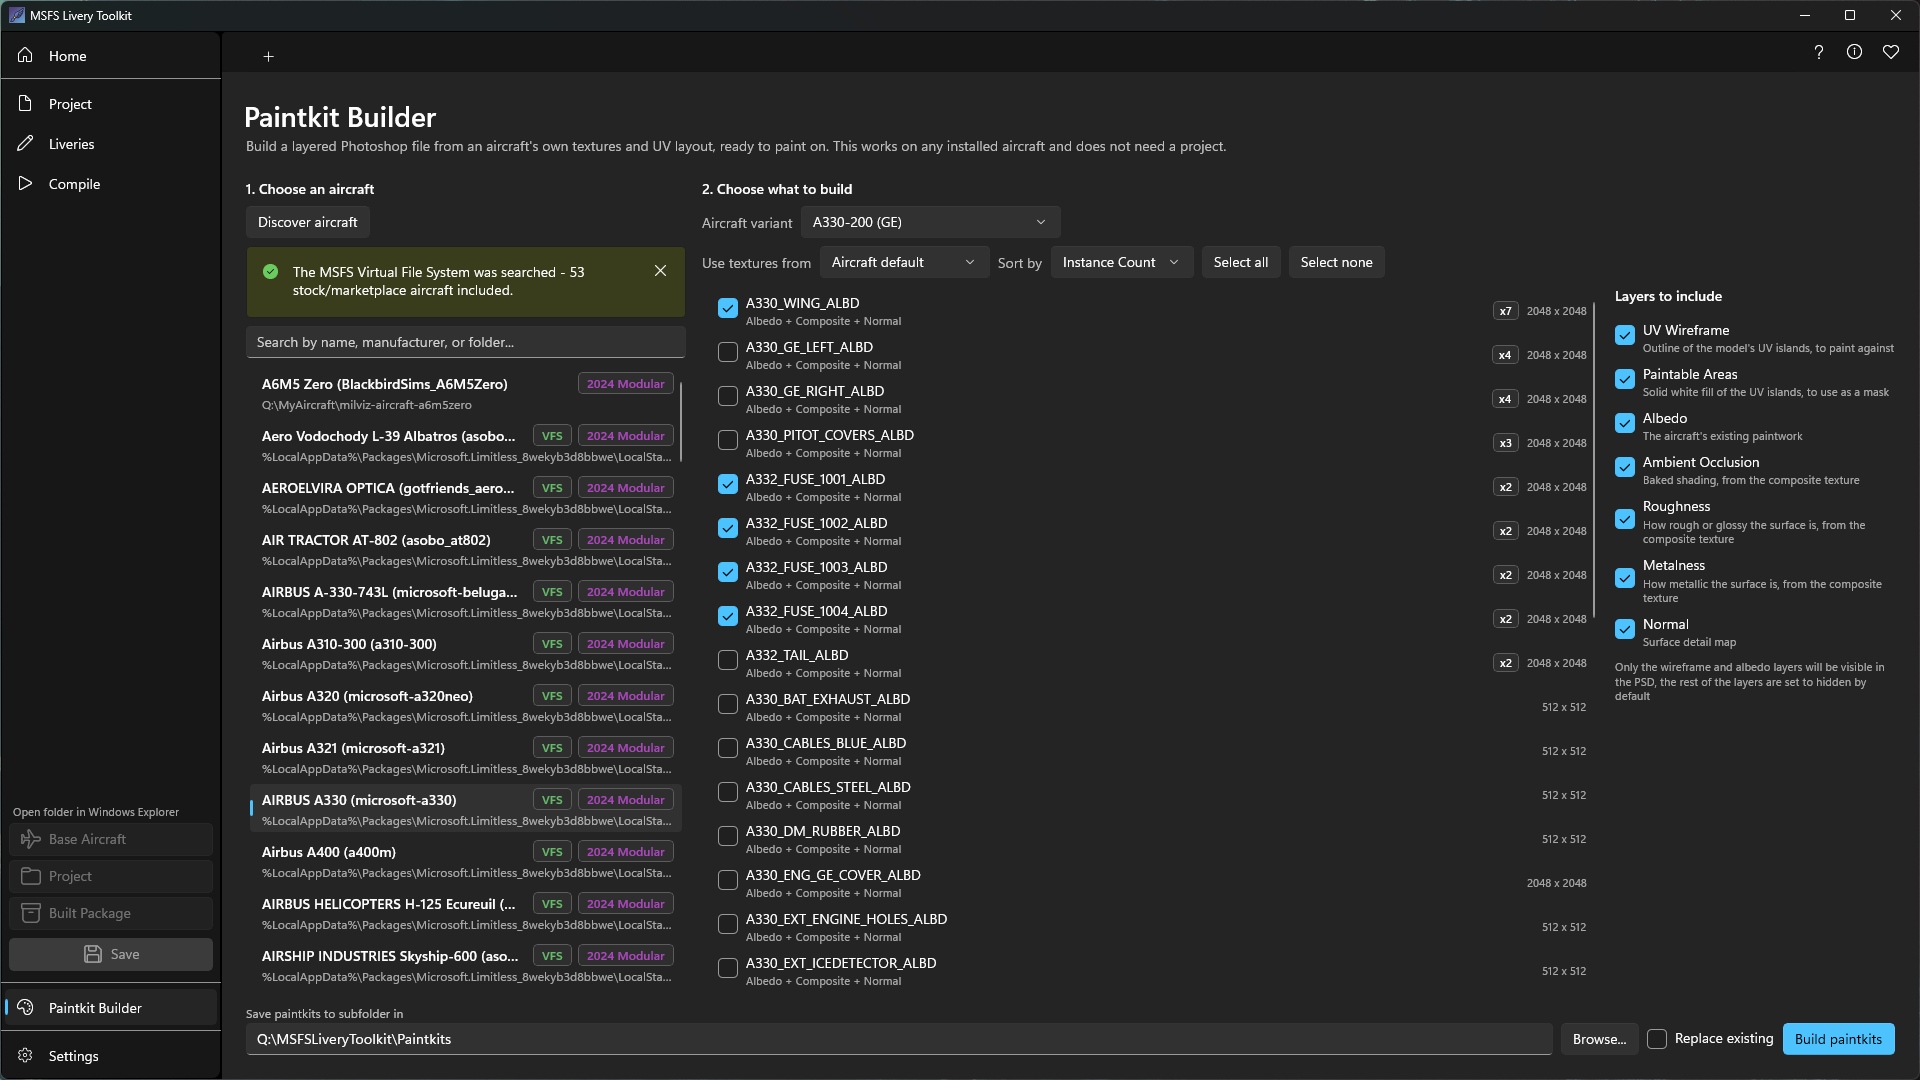
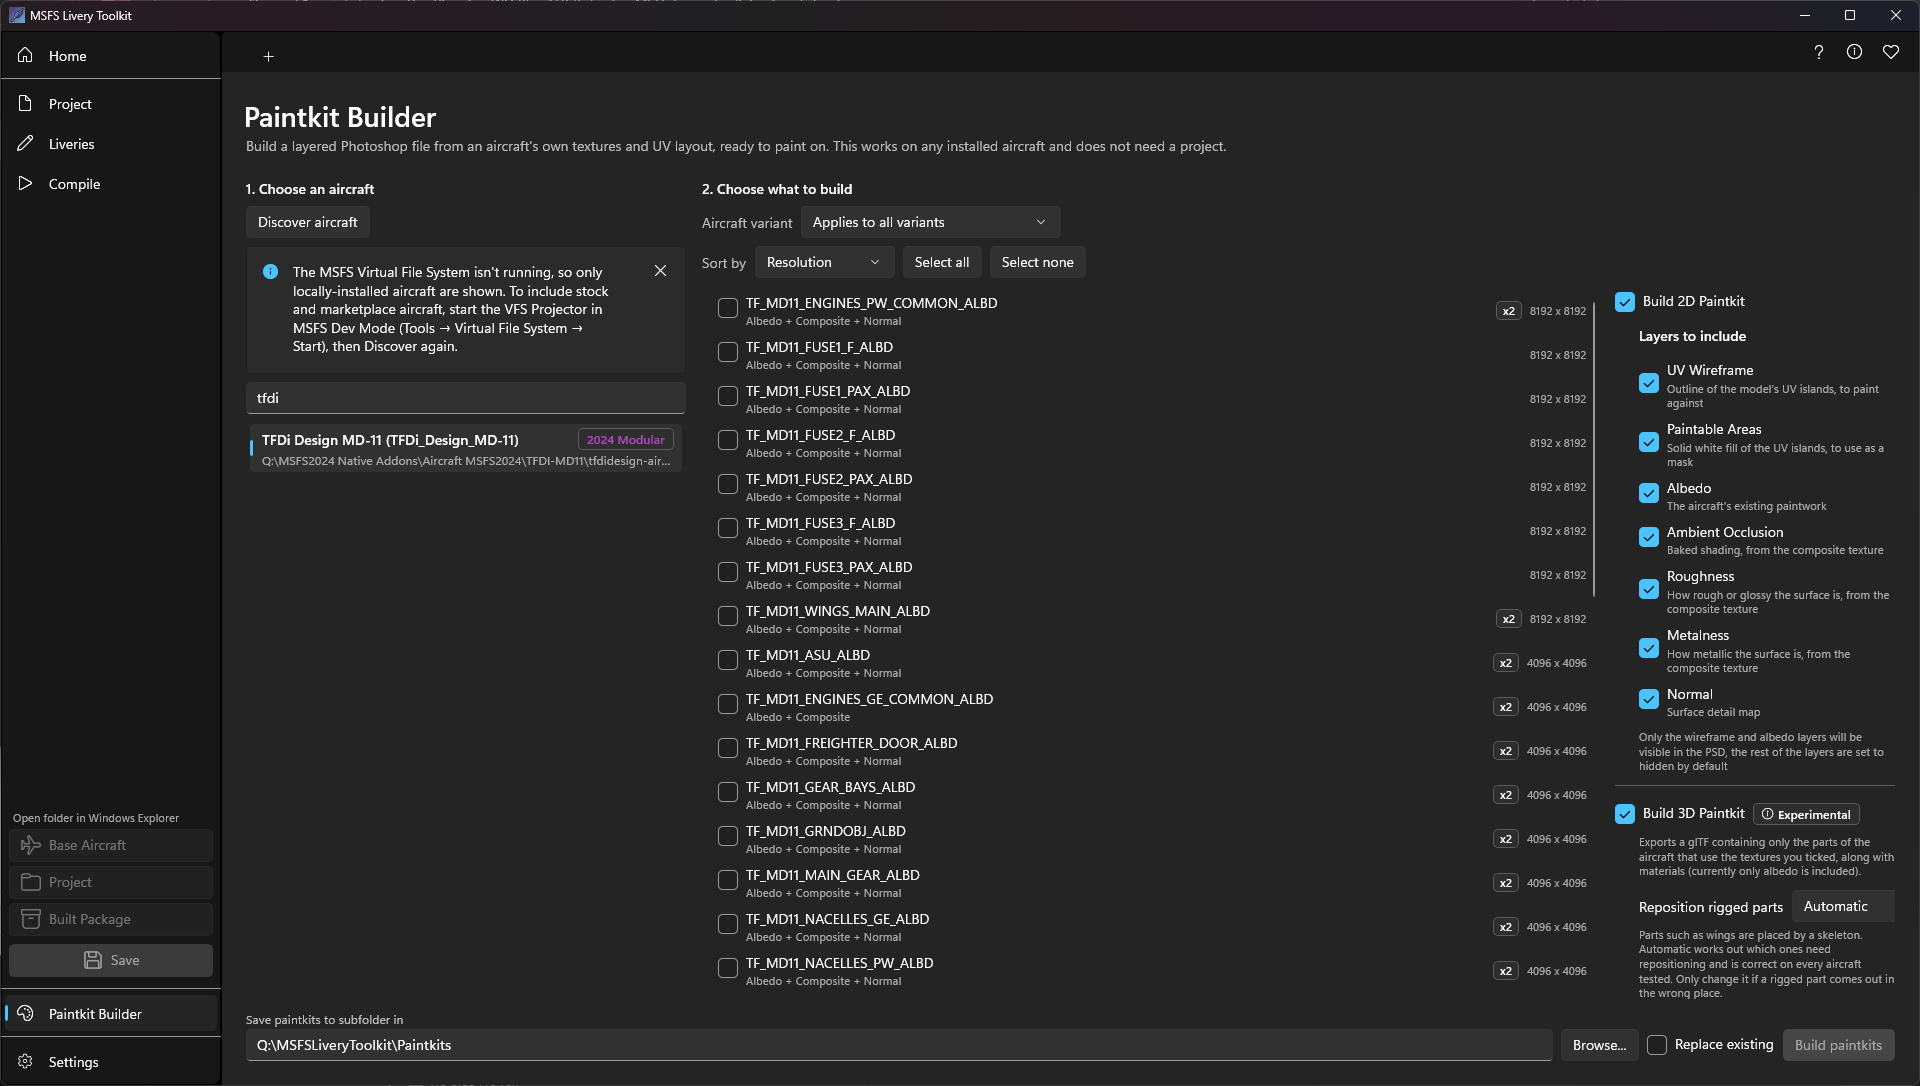
Docs: cover the 3D paintkit, and update the Paintkit Builder screenshot
The Paintkit Builder now produces two things, so the page is restructured
around that: a "2D paintkit" section holding the existing Photoshop material,
and a new "3D paintkit" section for the model export. The intro says up front
that either can be built on its own.

The 3D section is labelled experimental and says plainly what that means: a few
small parts, most often airliner control surfaces, can come out in the wrong
position, the main airframe is not affected, and other glTF importers including
Blender's official one misplace exactly the same parts.

"Using it" now covers choosing the outputs and the two subfolders they land in,
including the note that paintkits built before this release will not be seen by
the skip-existing check. Notes gained the model's sibling files, the report
written beside it, and the Reposition rigged parts escape hatch.

On the home page the single paintkit feature is split into a 2D and a 3D entry,
so the distinction is visible without opening the page.

Replaces Livery-Builder.png with a current screenshot of the Paintkit Builder,
and gives it descriptive alt text: it previously read "Livery Builder", which
is a different part of the app.

diff --git a/docs/paintkit-builder.md b/docs/paintkit-builder.md
@@ -9,8 +9,9 @@ Many aircraft never ship a paintkit. Without one you are painting blind: no idea
 fall on the texture sheet, no idea which part of the image is the tail, and nothing underneath to trace.
 
 The Paintkit Builder solves that by building a paintkit **from the aircraft itself**. It reads the
-aircraft's own compiled textures and its 3D model's UV layout, and writes a layered Photoshop file you can
-start painting on straight away.
+aircraft's own compiled textures and its 3D model, and gives you two ways to work: a layered Photoshop
+file you can start painting on straight away, and a 3D model of the parts you are painting that you can
+open in Blender. You can build either on its own, or both together.
 
 It works on any aircraft you have installed, and it does **not** need a project. You can point it at an
 aircraft you are only considering, look at what its textures are like, and decide from there.
@@ -21,7 +22,14 @@ You will find it in the sidebar, just above Settings.
 
 ## What you get
 
-One `.psd` per texture, saved into a folder named after the aircraft, with these layers:
+Everything is saved into a folder named after the aircraft, split into a **2D Paintkit** folder and a
+**3D Paintkit** folder so the Photoshop files and the model stay apart.
+
+---
+
+## The 2D paintkit
+
+One `.psd` per texture, with these layers:
 
 | Layer | What it is |
 |:------|:-----------|
@@ -47,9 +55,42 @@ Two details worth knowing:
 
 ---
 
+## The 3D paintkit
+{: .d-inline-block }
+
+Experimental
+{: .label .label-yellow }
+
+A `.gltf` model containing only the parts of the aircraft that use the textures you picked. Open it in
+Blender, or any other 3D painting software, to see where your artwork actually lands on the aircraft
+instead of working it out from a flat UV map.
+
+- **Each material is named after the paintkit it belongs to**, so it is obvious which `.psd` paints which
+  surface.
+- **The model arrives wearing the aircraft's current paintwork**, so you can see what you are starting
+  from and paint over it.
+- **Parts stay separate.** Movable surfaces such as a rudder or an elevator keep their own place in the
+  model tree, so you can rotate one out of the way to reach what is behind it.
+
+You can build the model on its own, without any Photoshop files, if that is all you want.
+
+### What "experimental" means here
+
+On most aircraft the model is accurate. On some, a few small parts can come out in the wrong position,
+most often control surfaces such as ailerons, flaps and spoilers on airliners. The main airframe is not
+affected.
+
+This is not something the app is getting wrong in isolation: other glTF importers, including the official
+Blender importer, place exactly the same parts in the wrong place, so it appears to be a general issue
+with how certain models store that information. It is worth knowing about before you rely on a part being
+exactly where the model puts it.
+
+---
+
 ## Using it
 
-![Livery Builder](assets/images/Livery-Builder.png)
+![The Paintkit Builder page, showing the aircraft list, the texture list and the build options](assets/images/Livery-Builder.png)
+
 **1. Choose an aircraft.** Click **Discover aircraft** and pick one from the list. Each entry shows where
 it was found and whether it is an MSFS 2020 or MSFS 2024 aircraft, so you can tell two installs of the
 same aircraft apart.
@@ -58,12 +99,20 @@ Stock and marketplace aircraft need the sim's Virtual File System running, exact
 See [Creating liveries]({{ '/creating-liveries.html' | relative_url }}) for how to start it.
 
 **2. Choose what to build.** If the aircraft has several variants, pick the one you are painting first.
-Then tick the textures you want a paintkit for, and tick which layers each file should contain. Your layer
-choice is remembered for next time.
+Then tick the textures you want a paintkit for.
+
+Underneath, choose the outputs. **Build 2D Paintkit** gives you the Photoshop files, and you can tick which
+layers each one should contain. **Build 3D Paintkit** gives you the model. Either can be used on its own,
+and your choices are remembered for next time.
 
 **3. Choose where to save it**, and click **Build paintkits**. A folder named after the aircraft is created
-inside the location you pick, so building for several aircraft keeps them separate. You can set a default
-location in [Settings]({{ '/configuration.html' | relative_url }}).
+inside the location you pick, so building for several aircraft keeps them separate, and inside it you get a
+**2D Paintkit** folder, a **3D Paintkit** folder, or both, depending on what you asked for. You can set a
+default location in [Settings]({{ '/configuration.html' | relative_url }}).
+
+If you built paintkits before this feature arrived, your older files are still where you left them. The app
+will not see them when it checks whether a paintkit already exists, so it builds fresh ones rather than
+skipping.
 
 ---
 
@@ -105,3 +154,11 @@ offered, so you will not be shown a scheme that does not fit.
   Photoshop.
 - Building a lot of textures at once takes a while. The app stays locked while it works, and there is a
   **Cancel** button if you change your mind.
+- The 3D model is written as a `.gltf` with a `.bin` beside it and one image per material. Keep those files
+  together, since the model refers to them by name.
+- A short report file is written next to the model, listing which of the aircraft's model files were used
+  and where each rigged part was placed. It is worth a look if something in the model seems out of place.
+- Some parts of an aircraft are positioned by a skeleton rather than sitting where they are drawn. If one
+  of those comes out wrong, the **Reposition rigged parts** setting beside the 3D option lets you override
+  how they are handled. Leave it on **Automatic** unless you have a reason not to: it is correct on every
+  aircraft tested, and the other settings exist only as an escape hatch.

diff --git a/docs/index.md b/docs/index.md
@@ -22,7 +22,8 @@ nav_order: 1
 <div class="feature-row"><span class="feature-mark">&#10003;</span><span class="feature-text"><strong>Automated livery setup</strong>: scans your installed aircraft, detects the profile, and builds a correct, sim-ready package structure for you.</span></div>
 <div class="feature-row"><span class="feature-mark">&#10003;</span><span class="feature-text"><strong>One-click texture extraction</strong>: decodes compiled KTX2/DDS art back into editable PNGs, even specially compressed files other tools can't open.</span></div>
 <div class="feature-row"><span class="feature-mark">&#10003;</span><span class="feature-text"><strong>Instant UV wireframes</strong>: generates a paint-alignment UV map straight from the aircraft's own 3D model.</span></div>
-<div class="feature-row"><span class="feature-mark">&#10003;</span><span class="feature-text"><strong>Ready-made paintkits</strong>: builds a layered Photoshop file from any aircraft's own textures and UV layout, even when no paintkit was ever published.</span></div>
+<div class="feature-row"><span class="feature-mark">&#10003;</span><span class="feature-text"><strong>Ready-made 2D paintkits</strong>: builds a layered Photoshop file from any aircraft's own textures and UV layout, even when no paintkit was ever published.</span></div>
+<div class="feature-row"><span class="feature-mark">&#10003;</span><span class="feature-text"><strong>3D paintkits</strong> (experimental): exports the parts you are painting as a 3D model you can open in Blender or other 3D painting software, so you can see your artwork on the aircraft instead of working it out from a flat UV map.</span></div>
 <div class="feature-row"><span class="feature-mark">&#10003;</span><span class="feature-text"><strong>Seamless compile &amp; package</strong>: builds a sim-ready package with the official MSFS SDK, no command line.</span></div>
 </div>
 
